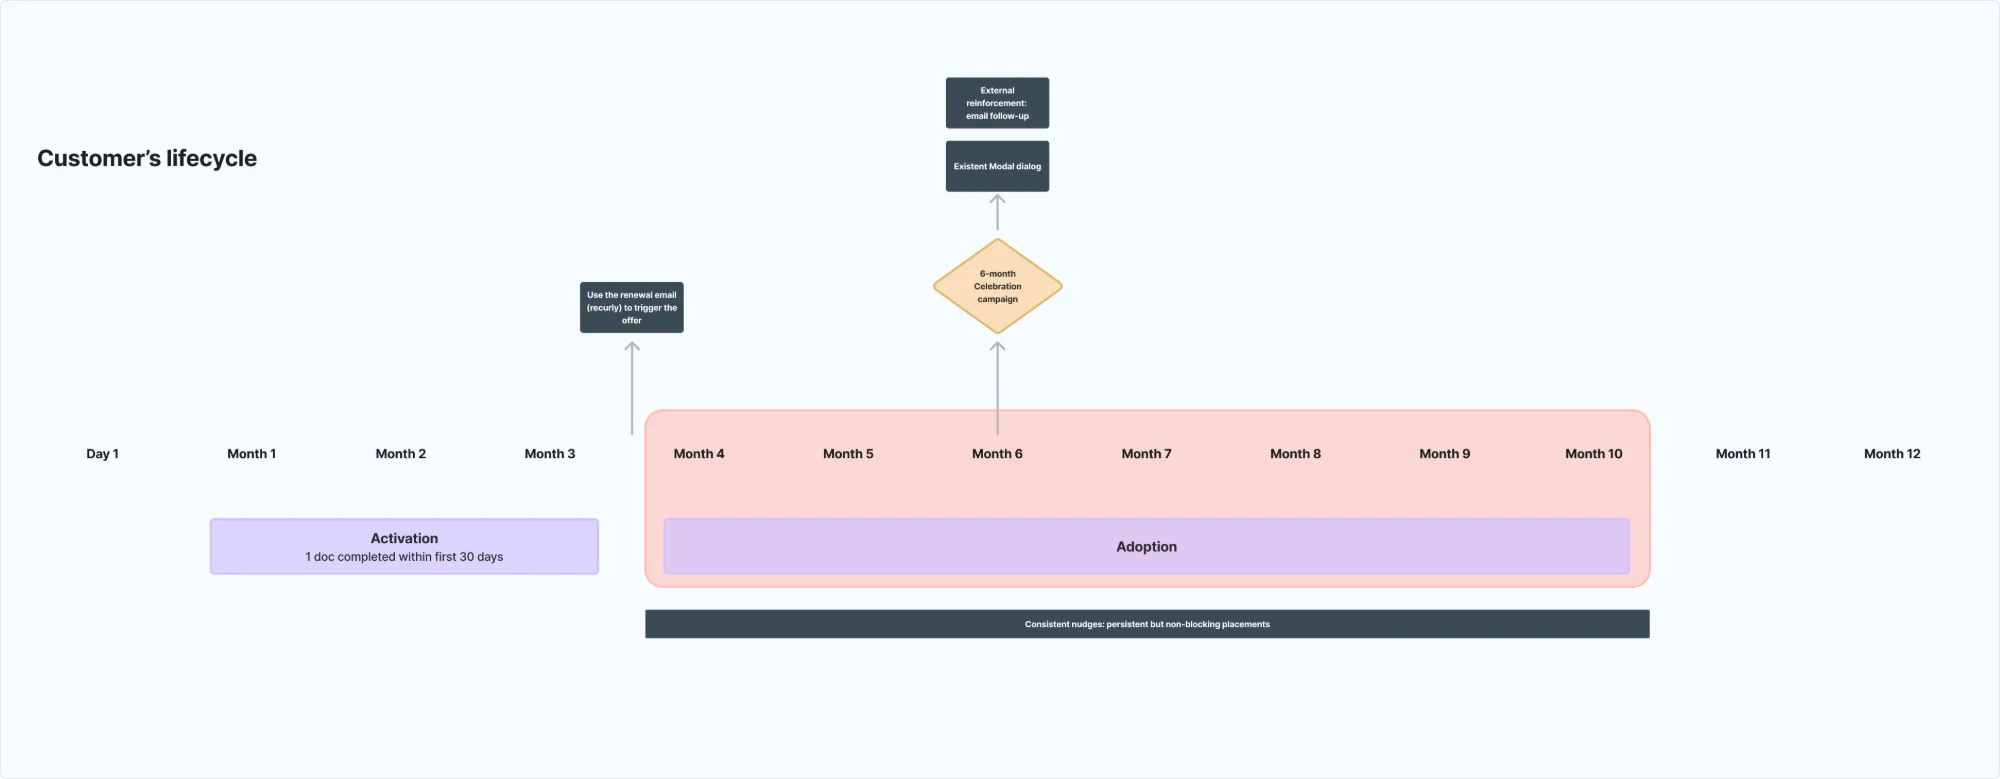
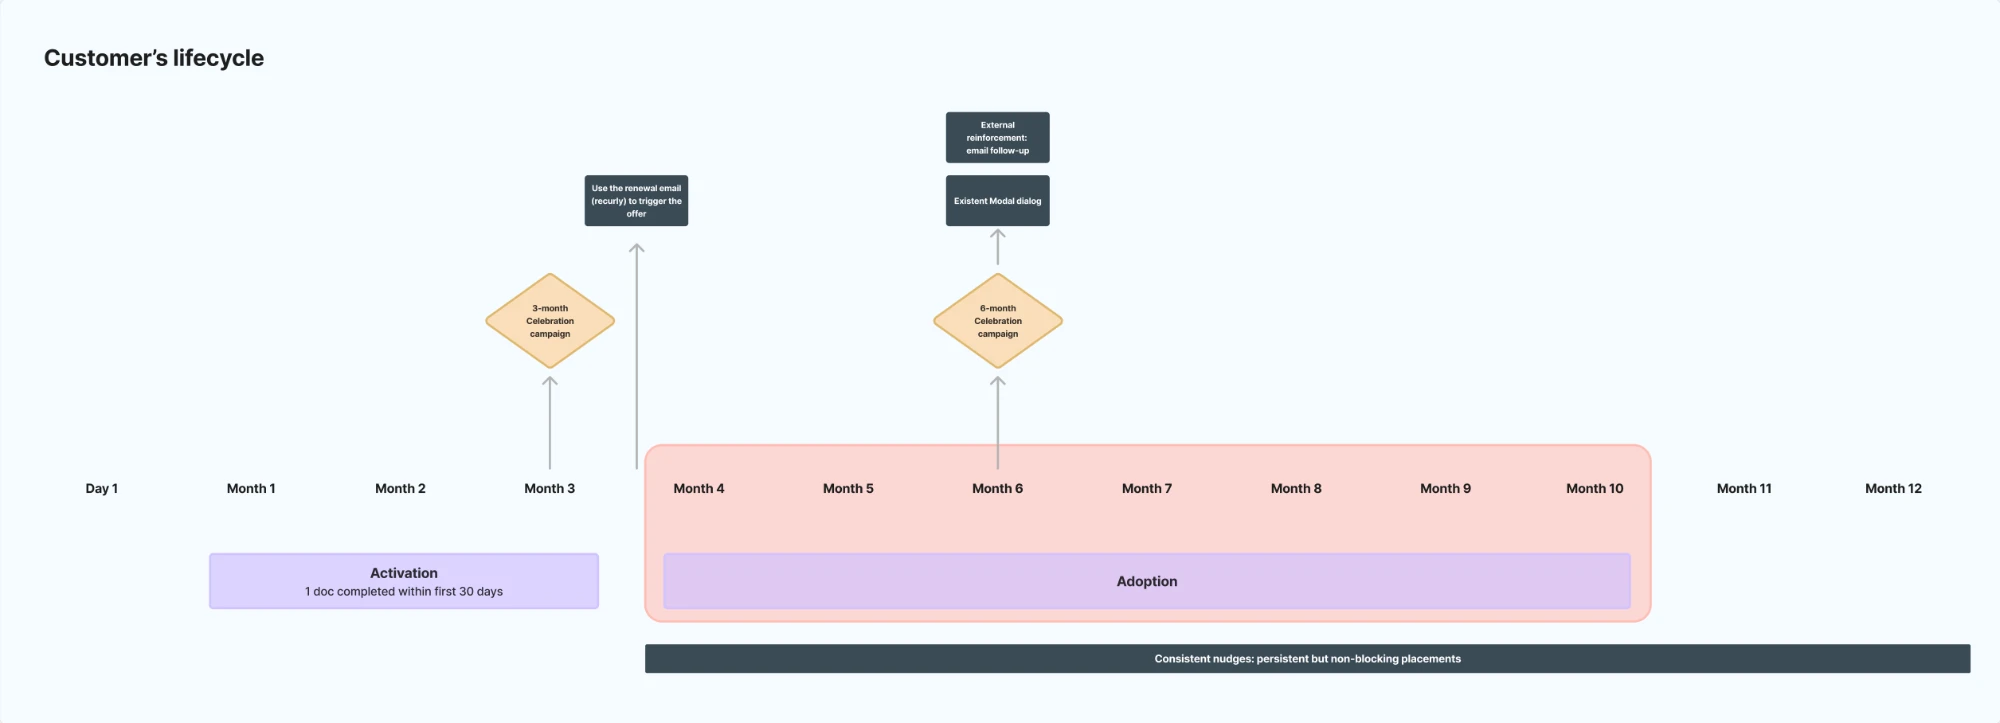
Draft: updated lifecycle and product communication diagrams

diff --git a/case-studies/monthly-to-annual.html b/case-studies/monthly-to-annual.html
@@ -560,7 +560,7 @@
       </div>
 
       <figure class="media wide">
-        <img class="media__img media__img--bordered" src="/case-studies/images/m2a/customer-lifecycle.webp" alt="Customer's lifecycle over the first twelve months: activation, adoption, consistent non-blocking nudges, and a 6-month celebration campaign with a modal and an email follow-up">
+        <img class="media__img media__img--bordered" src="/case-studies/images/m2a/customer-lifecycle.webp" alt="Customer's lifecycle over the first twelve months: activation, adoption, consistent non-blocking nudges, a 3-month celebration campaign, the renewal email used to trigger the offer, and a 6-month celebration campaign with a modal and an email follow-up">
         <figcaption>Defining a notification cadence: how many reminders, on which pages, through which channels (in-app, email, possibly mobile), and with what escalating or de-escalating prominence.</figcaption>
       </figure>
 
